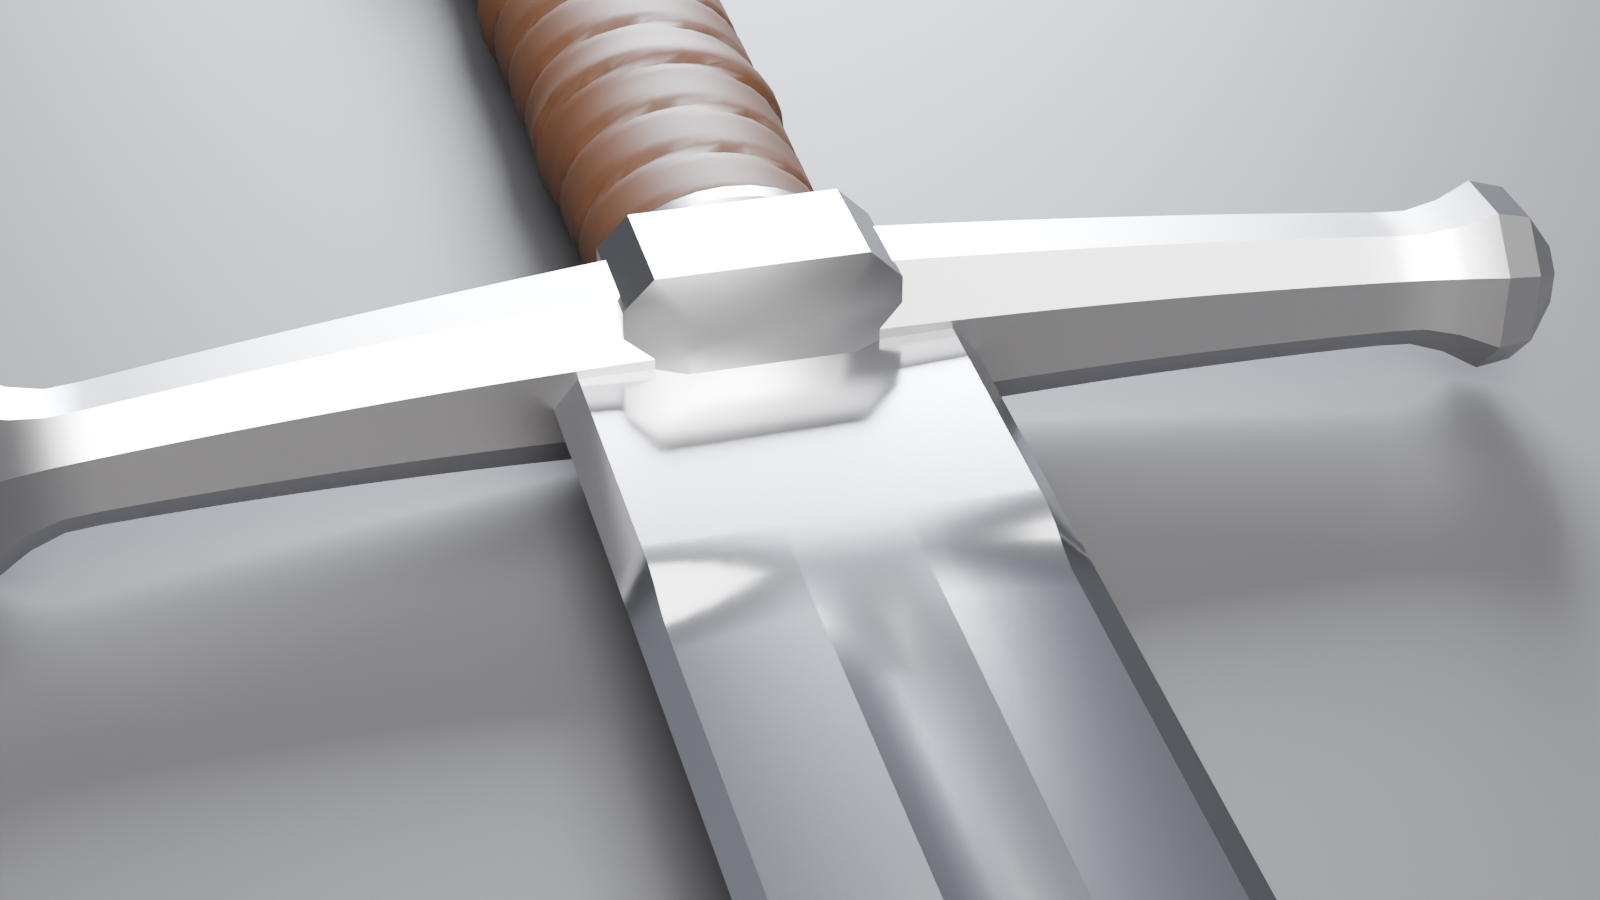
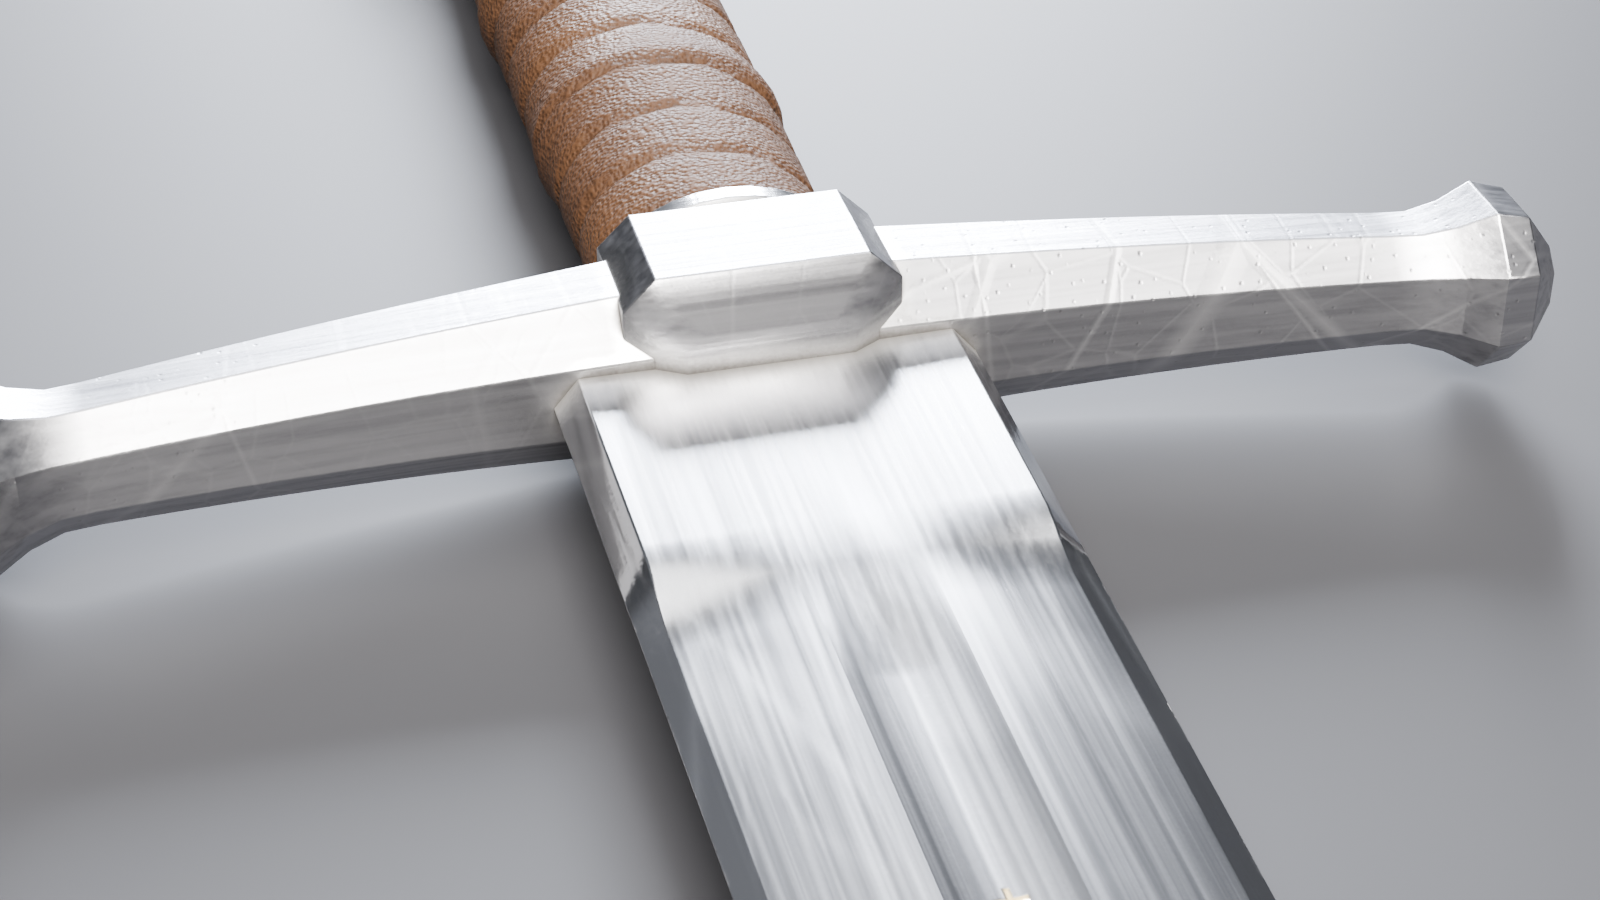
Add textured sword renders and texture tweaks
Preview renders of the textured sword (incl. inscription close-up). Texture
script: inscription mirrored on the back face so it reads correctly, softer
blade brushing, lighter pitting on the fittings. Rebaked maps follow.

Claude-Session: https://claude.ai/code/session_01MhBCr7t5XJ326xcSH2qL1g

diff --git a/Tools/Blender/sword_textures.py b/Tools/Blender/sword_textures.py
@@ -175,8 +175,8 @@ def build_bake_material(sword, engraving_path):
     s3 = g.math("MULTIPLY", scratch_layer((110, 110, 10), (0, 1.15, 0), 0.03), 0.45)
     scratch = g.math("MULTIPLY", g.math("MAXIMUM", g.math("MAXIMUM", s1, s2), s3), patch)
 
-    pits = g.math("MULTIPLY", g.remap(g.voronoi(P, 650.0), 0.0, 0.16, 1.0, 0.0),
-                  g.remap(g.noise(P, 25.0, 2.0), 0.48, 0.6))
+    pits = g.math("MULTIPLY", g.remap(g.voronoi(P, 650.0), 0.0, 0.12, 0.7, 0.0),
+                  g.remap(g.noise(P, 25.0, 2.0), 0.52, 0.62))
     grain = g.remap(g.math("ADD", g.math("MULTIPLY", g.voronoi(P, 1700.0), 0.7),
                            g.math("MULTIPLY", g.noise(P, 500.0, 4.0), 0.5)), 0.2, 0.8)
     worn = g.math("MULTIPLY", g.math("SUBTRACT", 1.0, cavity_m),
@@ -188,7 +188,9 @@ def build_bake_material(sword, engraving_path):
     # Inscription: object-space projection into the fuller, both faces.
     xyz = g.node("ShaderNodeSeparateXYZ", {"Vector": P}).outputs
     u = g.math("DIVIDE", g.math("SUBTRACT", xyz["Z"], ENGRAVE_Z0), ENGRAVE_LEN)
-    v = g.math("ADD", g.math("DIVIDE", xyz["X"], ENGRAVE_HEIGHT), 0.5)
+    # Mirror on the back face so the words read correctly from both sides.
+    side = g.math("SIGN", g.node("ShaderNodeSeparateXYZ", {"Vector": tc.outputs["Normal"]}).outputs["Y"])
+    v = g.math("ADD", g.math("DIVIDE", g.math("MULTIPLY", xyz["X"], side), ENGRAVE_HEIGHT), 0.5)
     engr_img = bpy.data.images.load(str(engraving_path), check_existing=True)
     engr_img.colorspace_settings.name = "Non-Color"
     engr_uv = g.node("ShaderNodeCombineXYZ", {"X": u, "Y": v}).outputs["Vector"]
@@ -208,7 +210,7 @@ def build_bake_material(sword, engraving_path):
     blade = g.mix_color(blade, rgb(0.92, 0.70, 0.36), engr)
 
     fit = g.mix_color(rgb(0.36, 0.36, 0.38), rgb(0.45, 0.45, 0.47), streak_f)
-    fit = g.mix_color(fit, rgb(0.20, 0.20, 0.21), pits)
+    fit = g.mix_color(fit, rgb(0.27, 0.27, 0.28), pits)
     fit = g.mix_color(fit, rgb(0.72, 0.72, 0.73), edge_m)
     fit = g.mix_color(fit, rgb(0.70, 0.70, 0.71), g.math("MULTIPLY", scratch, 0.5))
     fit = g.mix_color(fit, rgb(0.08, 0.07, 0.06), g.math("MULTIPLY", cavity_m, 0.9))
@@ -220,7 +222,7 @@ def build_bake_material(sword, engraving_path):
     base = g.mix_color(g.mix_color(fit, blade, is_blade), leather, is_leather)
 
     # ---- Roughness / metallic ----------------------------------------------
-    r_blade = g.math("ADD", g.math("ADD", 0.19, g.math("MULTIPLY", streak, 0.10)),
+    r_blade = g.math("ADD", g.math("ADD", 0.20, g.math("MULTIPLY", streak, 0.06)),
                      g.math("MULTIPLY", smudge, 0.16))
     r_blade = g.mix_float(r_blade, 0.10, polish)
     r_blade = g.mix_float(r_blade, 0.40, g.math("MULTIPLY", scratch, 0.8))
@@ -247,7 +249,7 @@ def build_bake_material(sword, engraving_path):
     base_emit = g.node("ShaderNodeEmission", {"Color": base})
 
     # ---- Surface detail (normal map) ---------------------------------------
-    h_blade = g.math("SUBTRACT", g.math("MULTIPLY", streak, 0.15),
+    h_blade = g.math("SUBTRACT", g.math("MULTIPLY", streak, 0.06),
                      g.math("ADD", g.math("MULTIPLY", scratch, 0.6), engr))
     h_fit = g.math("SUBTRACT", g.math("MULTIPLY", streak_f, 0.3),
                    g.math("ADD", g.math("MULTIPLY", pits, 0.9), g.math("MULTIPLY", scratch, 0.5)))
